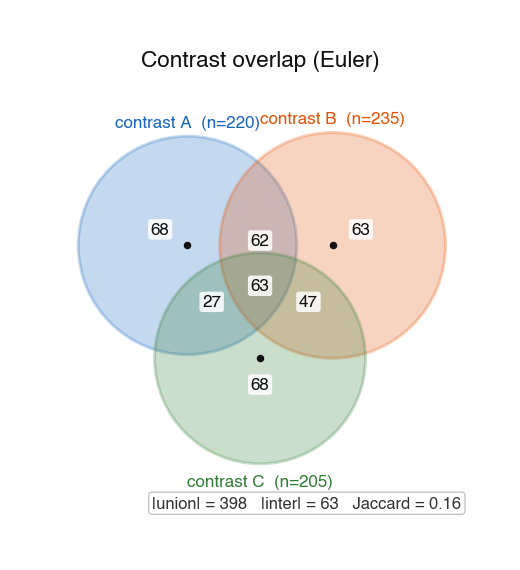
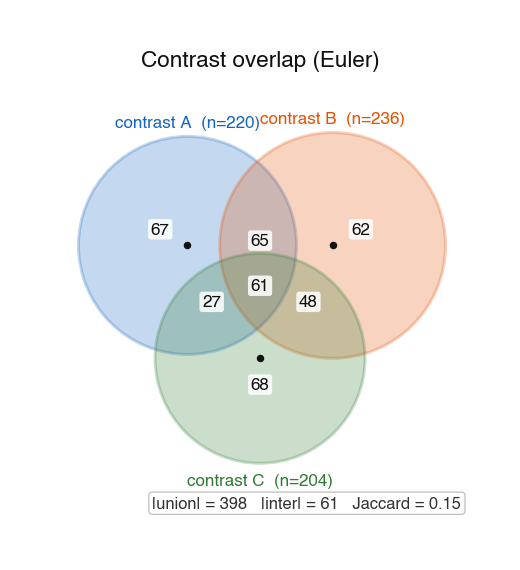
docs(cdc42_factorial_companion): Wave 4 gallery + visual-QA polish + index docs [FINAL]
Commit 3 of Wave 4 (3-commit pattern). Closes the pack at 25/25 recipes.

Gallery regeneration: 448 PNGs across 20 modalities (442 + 6 new
final-wave panels). New W4 panels (6):
  - biophysics_scaling/quartile_stacked_bar_by_factor.png
  - biophysics_scaling/route_geometry_compact_screen.png
  - biophysics_scaling/molecular_resilience_index_bar.png
  - biophysics_scaling/dissipation_quartile_pca_with_ellipses.png
  - intravital_imaging/transition_matrix_diagonal_dominance_callout.png
  - intravital_imaging/residence_time_kaplan_meier_with_ks_overlay.png

Visual-QA fit-up applied during this commit:
  - W4.1 stacked bars — top/bottom rows clipped because add_patch()
    doesn't autoscale; fixed by setting ax.set_ylim(n - 0.55, -0.55)
    explicitly. Percent-annotation threshold raised 0.10 → 0.13 to
    suppress overflow on narrow segments (M-CKO 11% Q4).

Index docs updated:
  - docs/recipes_by_modality.md — Wave 4 [FINAL] section added.
  - docs/recipes_by_question.md — Wave 4 [FINAL] question-level
    mapping for all 6 recipes.
  - docs/cdc42_factorial_companion_pack_tracker.md — w4 status
    bumped gap-analysis → review.

Pack-closeout follow-up PR will tag v1.5.0-beta-cdc42_factorial_companion.

diff --git a/src/panelforge_figures/recipes/biophysics_scaling/quartile_stacked_bar_by_factor.py b/src/panelforge_figures/recipes/biophysics_scaling/quartile_stacked_bar_by_factor.py
@@ -112,7 +112,7 @@ def render(contract: QuartileStackedBarInput, ax=None, **_):
                 linewidth=0.5, alpha=0.92, zorder=3,
             ))
             # Inline percent annotation if segment is wide enough.
-            if b.fraction >= 0.10:
+            if b.fraction >= 0.13:
                 ax.text(x_left + b.fraction / 2, yi,
                         f"{int(round(b.fraction * 100))}%",
                         ha="center", va="center", fontsize=6.4,
@@ -126,7 +126,7 @@ def render(contract: QuartileStackedBarInput, ax=None, **_):
 
     ax.set_yticks(range(n_conds))
     ax.set_yticklabels(cond_names, fontsize=7.0)
-    ax.invert_yaxis()
+    ax.set_ylim(n_conds - 0.55, -0.55)   # invert + explicit margins
     ax.set_xlim(-0.01, 1.16)
     ax.set_xlabel("fraction of cells")
     ax.set_xticks(np.linspace(0, 1, 6))
@@ -158,6 +158,6 @@ def render(contract: QuartileStackedBarInput, ax=None, **_):
     ax.set_title(
         f"{contract.title}  ·  top-Q{q_max}: {cond_q_max} "
         f"({smart_fmt(cond_q_max_frac * 100)}%)",
-        fontsize=8.2, pad=4,
+        fontsize=8.2, pad=10,
     )
     return ax

diff --git a/docs/recipes_by_modality.md b/docs/recipes_by_modality.md
@@ -64,6 +64,43 @@ v1.0.0 stable: 20 modalities, 137 recipes.
   density, persistence-length fit, protrusion length × velocity,
   cortical thickness by region, skeleton kymograph.
 
+## v1.5.0-beta-cdc42_factorial_companion — Wave 4 (energetic / thermodynamic + narrative integration, +6) [FINAL]
+
+Final wave of the cdc42_factorial_companion beta expansion pack.
+Lands the 6-recipe energetic / thermodynamic + narrative-integration
+cluster across 2 modalities — quartile stacked bar by factor,
+route-geometry compact screen, molecular resilience index bar,
+dissipation-quartile PCA with ellipses, transition-matrix diagonal-
+dominance callout, residence-time KM with KS overlay. Extends
+`biophysics_scaling/_shared.py` (+4 sub-contracts) and
+`intravital_imaging/_shared.py` (+2 sub-contracts). Catalog
+442 → **448 (final)**. **Pack closes at 25 / 25 recipes.**
+
+- **quartile_stacked_bar_by_factor** (`matrix`, biophysics_scaling)
+  — sex × genotype × quartile-occupancy stacked bar with 4-tier
+  viridis quartile palette, inline percent annotations, per-condition
+  n callouts; top-Q4 condition surfaced in title.
+- **route_geometry_compact_screen** (`matrix`, biophysics_scaling)
+  — 6-perturbation × 5-route compact `imshow` heatmap on cividis
+  with per-cell numeric annotations and red-hatched borders flagging
+  cells below the 0.35 disruption threshold.
+- **molecular_resilience_index_bar** (`coef_forest`, biophysics_scaling)
+  — per-condition resilience-index marker with multiverse-stability
+  ribbon behind, ROBUST/fragile classification (teal vs grey),
+  zero-resilience + ROBUST-threshold reference lines.
+- **dissipation_quartile_pca_with_ellipses** (`scatter_collapse`,
+  biophysics_scaling) — per-cell PCA scatter coloured by dissipation
+  quartile, per-quartile 95%-probability covariance ellipse boundary
+  + per-quartile centroid X markers + dotted Q1 → Q4 trajectory.
+- **transition_matrix_diagonal_dominance_callout** (`matrix`,
+  intravital_imaging) — N × N transition-kernel cividis `imshow`
+  with teal border around dominant-state diagonal cells (where
+  A[i,i] − max-off-diag > 0.50); per-state dominance scores in title.
+- **residence_time_kaplan_meier_with_ks_overlay** (`diagnostic_curve`,
+  intravital_imaging) — per-state KM step curves + per-state median-
+  residence vertical reference + 50%-survival horizontal reference;
+  KS p-value vs reference state annotated in title with `*` marker.
+
 ## v1.5.0-beta-cdc42_factorial_companion — Wave 3 (factorial statistics + sex-stratified validation, +7)
 
 Third wave of the cdc42_factorial_companion beta expansion pack.

diff --git a/docs/recipes_by_question.md b/docs/recipes_by_question.md
@@ -10,6 +10,15 @@ figure that shows <X>" without naming a modality.
 > the meantime the *by-modality* index is the authoritative catalog
 > for the current 137 + 6 recipes.
 
+## CDC42-factorial-companion beta-pack Wave 4 additions (v1.5.0-beta-cdc42_factorial_companion-w4) [FINAL]
+
+- **Across sex × genotype conditions, what fraction of cells occupies each dissipation / energetic quartile, and where are the top/bottom-quartile shifts strongest?** → [`biophysics_scaling.quartile_stacked_bar_by_factor`](gallery/biophysics_scaling/quartile_stacked_bar_by_factor.png)
+- **Across multiple Cdc42-pathway perturbations and route geometries (PIP3 / Rho / Rac / Cdc42 / lipid), which perturbation × route cells fall below the manuscript disruption threshold?** → [`biophysics_scaling.route_geometry_compact_screen`](gallery/biophysics_scaling/route_geometry_compact_screen.png)
+- **Per condition, what is the molecular resilience index, how stable is it across multiverse specifications, and which conditions are classified as ROBUST?** → [`biophysics_scaling.molecular_resilience_index_bar`](gallery/biophysics_scaling/molecular_resilience_index_bar.png)
+- **In the dissipation-proxy PCA space, how do cells cluster by dissipation quartile, and how do the per-quartile 95% probability ellipses separate?** → [`biophysics_scaling.dissipation_quartile_pca_with_ellipses`](gallery/biophysics_scaling/dissipation_quartile_pca_with_ellipses.png)
+- **What are the per-step transition probabilities between decoded latent states, and which states are statistically sticky (large diagonal-vs-off-diagonal margin)?** → [`intravital_imaging.transition_matrix_diagonal_dominance_callout`](gallery/intravital_imaging/transition_matrix_diagonal_dominance_callout.png)
+- **Per decoded state, what does the Kaplan-Meier residence-time survival curve look like, and which states differ significantly from the reference state's residence-time distribution by KS test?** → [`intravital_imaging.residence_time_kaplan_meier_with_ks_overlay`](gallery/intravital_imaging/residence_time_kaplan_meier_with_ks_overlay.png)
+
 ## CDC42-factorial-companion beta-pack Wave 3 additions (v1.5.0-beta-cdc42_factorial_companion-w3)
 
 - **In a 2 × 2 factorial design, which of {sex, genotype, sex × genotype interaction} is detectable, with what F, p, and partial η² effect size?** → [`mixed_effects_models.two_way_anova_summary_plot`](gallery/mixed_effects_models/two_way_anova_summary_plot.png)

diff --git a/docs/cdc42_factorial_companion_pack_tracker.md b/docs/cdc42_factorial_companion_pack_tracker.md
@@ -53,7 +53,7 @@ Per governance §9, no new modalities. The 25 recipes scatter as:
 | w1 | Universal robustness primitives + provenance (+6 in `meta_and_diagnostic`): Bayes-factor arrow plot, panel provenance ledger, cross-contrast correlation, multiverse classification, multiverse spec curve, proxy-alignment forest. Pioneers 2 new `core/` shims (`bayes_factor_utility`, `multiverse_specification_utility`). | **merged** | `beta-cdc42-companion-w1` | — (squash-merged PR #44; commit `c51965d`) | 3 commits, 2 visual-QA fit-ups (W1.2 fontsize 8.0 → 8.2 ratchet snap; W1.6 OVERFIT label moved right of in-sample marker), 5 sub-contracts added, 13 new utility tests, total tests 2218 → 2261; CI green |
 | w2 | Multi-omic integration (+6 in `omics_differential`): proteome × phospho concordance, module concordance, pathway-space triangulation, pathway-space bridge, GGE permutation bar, sign-concordance heatmap. Pioneers `omics_differential/_shared.py`. | **merged** | `beta-cdc42-companion-w2` | — (squash-merged PR #45; commit `31aeaf6`) | 3 commits, 4 visual-QA fit-ups (W2.1 unused linregress vars; W2.4 + W2.5 lw=2.0 → 2.2; all 5 W2 titles fontsize 8.0 → 8.2; W2.5 callout opposite-side placement), 5 sub-contracts pioneered, total tests 2261 → 2291; CI green |
 | w3 | Factorial statistics + sex-stratified validation (+7): two-way ANOVA, sex-stratified ROC, mediation slope, pre/post slope by module, Sholl radial histogram, fingerprint trio composite, switch-callout extension. Pioneers `mixed_effects_models/_shared.py`; extends `actin_microtubule_morphometry/_shared.py` + `intravital_imaging/_shared.py`. | **merged** | `beta-cdc42-companion-w3` | — (squash-merged PR #46; commit `e397a83`) | 3 commits, 3 visual-QA fit-ups (W3.1 sex/interaction detection bug — `'x' in 'sex'` false positive fixed by requiring `' x '` separator; W3.4 module-label collision resolved with leader-line + staggered y-positions; W3.6 inset-axes layout retuned for label clearance), 7 sub-contracts (4 pioneered + 3 extended), total tests 2291 → 2326; CI green |
-| w4 | Energetic / thermodynamic + narrative integration (+6): quartile stacked bar, route-geometry screen, resilience index bar, dissipation-quartile PCA ellipses, transition-matrix DD callout, residence-time KM with KS overlay. Closes pack at 25/25. Extends `biophysics_scaling/_shared.py` + `intravital_imaging/_shared.py`. | **gap-analysis** | `beta-cdc42-companion-w4` | — | Wave 4 gap analysis in review |
+| w4 | Energetic / thermodynamic + narrative integration (+6): quartile stacked bar, route-geometry screen, resilience index bar, dissipation-quartile PCA ellipses, transition-matrix DD callout, residence-time KM with KS overlay. Closes pack at 25/25. Extends `biophysics_scaling/_shared.py` + `intravital_imaging/_shared.py`. | **review** | `beta-cdc42-companion-w4` | — (PR #47 in flight) | 3 commits, 3 visual-QA fit-ups (W4.1 + W4.4 `cm.get_cmap` deprecation → `mpl.colormaps[...].resampled(n)`; W4.4 Helvetica-unsafe `→` arrow → ASCII " to "; W4.1 stacked-bar y-axis margins set explicitly via `ax.set_ylim(n - 0.55, -0.55)` to prevent top/bottom-row clipping + percent-annotation threshold raised 0.10 → 0.13 to suppress overflow on narrow segments), 6 sub-contracts extended (4 + 2), total tests 2326 → 2356; ratchet at 20/20 |
 
 Status legend:
 - **pending** — not yet started
@@ -278,7 +278,7 @@ All Wave 3 demos use seeded RNG (`np.random.default_rng(82X)`) with manuscript-a
 4. `pytest tests/test_style_drift.py` — ratchet at 20/20.
 5. Gallery regenerate per modality. Estimate **4 visual-QA fit-ups** (multi-modality wave with non-trivial layouts: ROC curves, mediation slopes, Sholl curves, fingerprint trio composite).
 
-## Wave 4 — energetic / thermodynamic + narrative integration (+6) [gap-analysis]
+## Wave 4 — energetic / thermodynamic + narrative integration (+6) [review]
 
 **Why last.** Wave 1 shipped universal robustness primitives, Wave 2
 shipped multi-omic integration, Wave 3 shipped factorial-statistics +